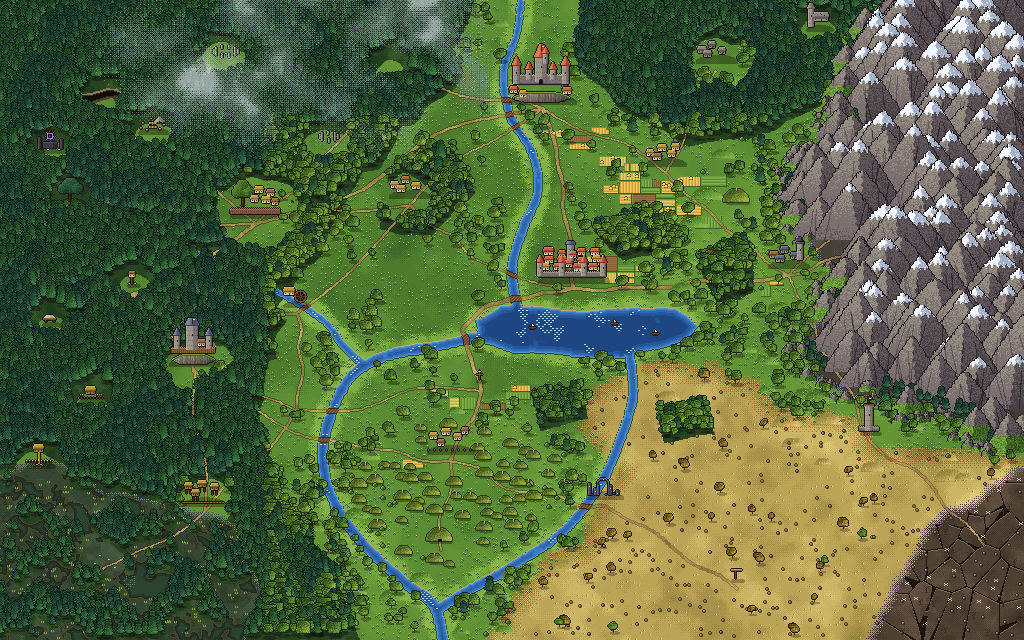
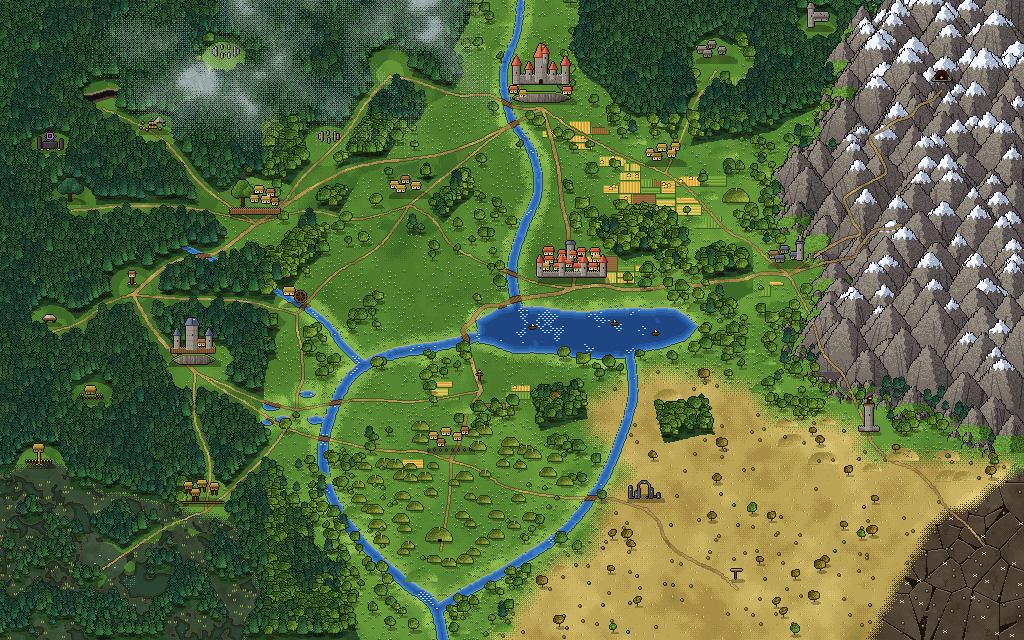
Walk along the roads; fix map drawing mistakes
- travelling: the company walks along the drawn road curves instead of
  jumping between places; the camera follows it, the figure turns to face
  the way it walks and bobs while walking
- tools/velesia_map.py writes js/data/velesia-roads.js (ROADS, the shape
  of every road); dashed lines to secret places follow the same curves
- map: roads through forests are no longer hidden under tree crowns (grass
  verges instead of bare forest floor); villages and places next to the
  mountains stand on grass, no more dark bare patches; mountain roads
  are drawn over the slopes, with switchbacks up to Smocza Jama; the
  cave is drawn above the peaks; Ruiny Asterionu moved off the river;
  Rozlewiska get ponds; fewer pebbles on the plains; generator is now
  deterministic (no Python hash())
- music: expeditions to Bagno, Pola, Chata and Wilcze Jary asked for a
  track that does not exist (error every beat); they now reuse a similar one

Claude-Session: https://claude.ai/code/session_01PqUadMpNc5W4942yjJ69E8

diff --git a/js/data/velesia-roads.js b/js/data/velesia-roads.js
@@ -1,0 +1,47 @@
+/* ===== DROGI VELESII: kształt dróg z mapy, punkty w procentach mapy (x, y) =====
+   Wygenerowane przez tools/velesia_map.py – nie edytuj ręcznie, tylko uruchom skrypt ponownie. */
+const ROADS={
+ "weleszow|dabrowa":[[53,17],[52.6,17.3],[52.1,17.7],[51.7,18.1],[51.3,18.4],[50.8,18.8],[50.4,19.1],[50,19.5],[49.5,19.8],[49.1,20.2],[48.6,20.5],[48.2,20.9],[47.8,21.2],[47.3,21.6],[46.9,21.9],[46.4,22.2],[46,22.5],[45.5,22.8],[45.1,23.1],[44.6,23.4],[44.2,23.6],[43.7,23.8],[43.2,24.1],[42.7,24.2],[42.3,24.4],[41.8,24.5],[41.3,24.6],[40.8,24.7],[40.3,24.8],[39.9,24.9],[39.4,25],[38.9,25],[38.4,25.1],[37.9,25.2],[37.4,25.3],[36.9,25.4],[36.5,25.5],[36,25.7],[35.5,25.8],[35,26],[34.6,26.2],[34.1,26.5],[33.6,26.7],[33.2,27],[32.7,27.4],[32.3,27.7],[31.9,28.1],[31.4,28.5],[31,28.8],[30.6,29.2],[30.2,29.6],[29.8,30],[29.3,30.4],[28.9,30.9],[28.5,31.3],[28.1,31.7],[27.7,32.1],[27.3,32.6],[26.9,33],[26.5,33.5],[26.1,33.9],[25.7,34.3],[25.3,34.7],[25,35]],
+ "weleszow|brzezina":[[53,17],[52.6,17.4],[52.1,17.8],[51.7,18.1],[51.3,18.5],[50.9,18.9],[50.4,19.3],[50,19.7],[49.6,20.1],[49.2,20.5],[48.8,20.9],[48.4,21.3],[48,21.8],[47.6,22.2],[47.2,22.7],[46.8,23.2],[46.4,23.7],[46,24.2],[45.7,24.7],[45.3,25.2],[44.9,25.7],[44.5,26.2],[44.2,26.7],[43.8,27.2],[43.4,27.7],[43,28.1],[42.6,28.6],[42.3,29.1],[41.9,29.6],[41.5,30.1],[41.1,30.6],[40.7,31.1],[40.3,31.6],[40,32]],
+ "weleszow|olszynow":[[53,17],[53.4,17.4],[53.8,17.9],[54.2,18.3],[54.6,18.7],[55,19.2],[55.4,19.6],[55.9,20],[56.3,20.4],[56.7,20.8],[57.1,21.2],[57.5,21.6],[58,22],[58.4,22.3],[58.8,22.7],[59.3,23.1],[59.7,23.4],[60.1,23.8],[60.6,24.1],[61,24.4],[61.5,24.7],[61.9,25],[62.4,25.3],[62.8,25.6],[63.3,25.9],[63.7,26.2],[64.2,26.5],[64.6,26.8],[65,27]],
+ "weleszow|doliny":[[53,17],[52.5,17],[52,17],[51.5,17.1],[51,17],[50.6,17],[50.1,16.8],[49.6,16.4],[49.2,16.1],[48.8,15.7],[48.4,15.3],[47.9,15],[47.4,14.9],[47,14.9],[46.5,14.9],[46,15],[45.5,15],[45,15],[44.5,14.9],[44,14.7],[43.6,14.4],[43.1,14.2],[42.7,13.9],[42.2,13.7],[41.7,13.4],[41.3,13.1],[40.8,12.9],[40.4,12.6],[39.9,12.5],[39.4,12.3],[38.9,12.2],[38.4,12.1],[38,12]],
+ "weleszow|sanow":[[53,17],[53.1,17.7],[53.3,18.5],[53.4,19.2],[53.6,20],[53.7,20.7],[53.8,21.5],[53.9,22.3],[54.1,23],[54.2,23.8],[54.3,24.5],[54.4,25.3],[54.5,26.1],[54.6,26.8],[54.6,27.6],[54.7,28.4],[54.7,29.2],[54.8,29.9],[54.8,30.7],[54.9,31.5],[54.9,32.3],[55,33],[55.2,33.8],[55.3,34.5],[55.4,35.3],[55.5,36.1],[55.5,36.8],[55.4,37.6],[55.4,38.4],[55.4,39.2],[55.6,39.9],[55.8,40.6],[56,41.3],[56.1,42.1],[56.1,42.9],[56.1,43.7],[56,44.4],[56,45]],
+ "dabrowa|brzezina":[[25,35],[25.5,34.8],[25.9,34.5],[26.4,34.3],[26.9,34],[27.3,33.8],[27.8,33.5],[28.3,33.3],[28.7,33.2],[29.2,33],[29.7,32.9],[30.2,32.9],[30.7,32.9],[31.2,33.1],[31.6,33.2],[32.1,33.4],[32.6,33.6],[33.1,33.8],[33.5,33.9],[34,34],[34.5,34.1],[35,34.1],[35.5,34],[36,33.9],[36.4,33.8],[36.9,33.6],[37.4,33.4],[37.8,33.1],[38.3,32.9],[38.8,32.6],[39.2,32.4],[39.7,32.1],[40,32]],
+ "dabrowa|puszcza":[[25,35],[24.5,34.8],[24.1,34.6],[23.6,34.4],[23.1,34.2],[22.6,34],[22.2,33.8],[21.7,33.6],[21.2,33.4],[20.7,33.2],[20.3,33],[19.8,32.9],[19.3,32.8],[18.8,32.7],[18.3,32.6],[17.9,32.5],[17.4,32.4],[16.9,32.4],[16.4,32.3],[15.9,32.3],[15.4,32.3],[14.9,32.3],[14.4,32.3],[14,32.3],[13.5,32.3],[13,32.3],[12.5,32.3],[12,32.4],[11.5,32.4],[11,32.5],[10.5,32.5],[10.1,32.6],[9.6,32.6],[9.1,32.7],[8.6,32.8],[8.1,32.8],[7.6,32.9],[7,33]],
+ "dabrowa|jary":[[25,35],[24.6,34.6],[24.2,34.1],[23.8,33.7],[23.4,33.3],[23,32.8],[22.6,32.4],[22.2,32],[21.8,31.5],[21.4,31.1],[21,30.6],[20.6,30.1],[20.2,29.6],[19.8,29.1],[19.5,28.6],[19.2,28],[18.9,27.4],[18.5,26.8],[18.2,26.1],[18,25.5],[17.7,24.9],[17.4,24.3],[17,23.7],[16.7,23.1],[16.4,22.5],[16,22],[15.6,21.5],[15.2,21.1],[14.8,20.7],[14.4,20.3],[14,19.9],[13.5,19.6],[13.1,19.2],[12.6,18.9],[12.2,18.6],[11.8,18.3],[11.3,17.9],[10.9,17.6],[10.4,17.3],[10,17]],
+ "dabrowa|krag":[[25,35],[25.4,34.6],[25.8,34.1],[26.2,33.7],[26.6,33.2],[27,32.7],[27.4,32.2],[27.7,31.7],[28,31.1],[28.3,30.5],[28.6,29.8],[28.9,29.2],[29.2,28.5],[29.5,27.9],[29.8,27.3],[30.1,26.8],[30.5,26.2],[30.8,25.7],[31.2,25.2],[31.6,24.7],[32,24]],
+ "dabrowa|kapliczka":[[25,35],[24.6,35.5],[24.2,36],[23.9,36.5],[23.5,37],[23.1,37.5],[22.7,37.9],[22.3,38.4],[21.9,38.8],[21.5,39.2],[21,39.5],[20.6,39.7],[20.1,39.9],[19.6,40.1],[19.1,40.2],[18.6,40.3],[18.2,40.4],[17.7,40.6],[17.2,40.8],[16.8,41.1],[16.3,41.5],[15.9,41.9],[15.5,42.4],[15.2,42.9],[14.8,43.4],[14.4,43.9],[14.1,44.4],[13.7,45],[13.4,45.5],[13,46]],
+ "dabrowa|polana":[[25,35],[25,34.2],[24.9,33.4],[24.9,32.7],[24.9,31.9],[24.8,31.1],[24.8,30.3],[24.7,29.5],[24.7,28.8],[24.6,28],[24.5,27.2],[24.4,26.5],[24.3,25.7],[24.1,25],[23.9,24.3],[23.7,23.5],[23.5,22.8],[23.3,22.1],[23.1,21.4],[23,20.7],[22.8,19.9],[22.7,19.2],[22.6,18.4],[22.5,17.6],[22.4,16.9],[22.4,16.1],[22.3,15.3],[22.2,14.5],[22.2,13.8],[22.1,13],[22.1,12.2],[22,11.4],[22,11]],
+ "dabrowa|wyrab":[[25,35],[24.6,34.6],[24.1,34.3],[23.7,33.9],[23.3,33.6],[22.8,33.2],[22.4,32.8],[22,32.5],[21.6,32],[21.2,31.6],[20.8,31.1],[20.4,30.6],[20.1,30],[19.7,29.4],[19.4,28.9],[19.1,28.3],[18.8,27.7],[18.4,27.2],[18.1,26.6],[17.7,26.1],[17.4,25.5],[17,25],[16.6,24.5],[16.3,23.9],[15.9,23.4],[15.6,22.9],[15.2,22.3],[15,22]],
+ "wyrab|czarnybor":[[15,22],[14.5,22.2],[14.1,22.5],[13.6,22.7],[13.1,22.9],[12.7,23.1],[12.2,23.3],[11.7,23.5],[11.2,23.5],[10.7,23.5],[10.2,23.5],[9.8,23.5],[9.3,23.4],[8.8,23.5],[8.3,23.5],[7.8,23.7],[7.3,23.9],[6.9,24.1],[6.4,24.3],[5.9,24.5],[5.5,24.8],[5,25]],
+ "krag|polana":[[32,24],[31.6,23.5],[31.3,22.9],[30.9,22.4],[30.6,21.8],[30.2,21.3],[29.9,20.8],[29.5,20.2],[29.2,19.7],[28.8,19.2],[28.4,18.7],[28.1,18.2],[27.7,17.7],[27.3,17.2],[26.9,16.7],[26.5,16.2],[26.2,15.7],[25.8,15.2],[25.4,14.8],[25,14.3],[24.6,13.9],[24.2,13.4],[23.8,13],[23.4,12.5],[23,12.1],[22.6,11.6],[22.2,11.2],[22,11]],
+ "krag|doliny":[[32,24],[32.3,23.4],[32.7,22.9],[33,22.3],[33.3,21.7],[33.7,21.1],[34,20.6],[34.3,19.9],[34.5,19.3],[34.8,18.6],[35,17.9],[35.3,17.3],[35.6,16.6],[35.8,16],[36.1,15.3],[36.5,14.7],[36.8,14.2],[37.1,13.6],[37.4,13],[37.8,12.4],[38,12]],
+ "brzezina|mlyn":[[40,32],[39.7,32.6],[39.5,33.3],[39.2,34],[38.9,34.6],[38.6,35.3],[38.4,35.9],[38.1,36.5],[37.8,37.1],[37.5,37.7],[37.1,38.3],[36.8,38.8],[36.4,39.3],[36,39.8],[35.6,40.2],[35.1,40.5],[34.7,40.9],[34.3,41.3],[33.9,41.7],[33.4,42.1],[33,42.5],[32.6,43],[32.3,43.5],[31.9,44],[31.6,44.5],[31.2,45.1],[30.9,45.7],[30.5,46.2],[30.2,46.8],[29.9,47.4],[29.6,48],[29.2,48.6],[29,49]],
+ "brzezina|sanow":[[40,32],[40.4,32.4],[40.9,32.7],[41.3,33.1],[41.7,33.5],[42.1,34],[42.4,34.6],[42.7,35.2],[43,35.9],[43.2,36.6],[43.5,37.2],[43.8,37.8],[44.2,38.3],[44.6,38.7],[45,39.1],[45.4,39.5],[45.8,39.9],[46.3,40.2],[46.7,40.6],[47.2,40.9],[47.6,41.2],[48.1,41.5],[48.5,41.8],[49,42],[49.4,42.3],[49.9,42.6],[50.3,42.9],[50.8,43.2],[51.2,43.5],[51.7,43.8],[52.2,44],[52.6,44.2],[53.1,44.4],[53.6,44.5],[54.1,44.6],[54.6,44.7],[55,44.8],[55.5,44.9],[56,45]],
+ "kapliczka|mlyn":[[13,46],[13.5,46.1],[14,46.1],[14.5,46.2],[14.9,46.3],[15.4,46.3],[15.9,46.4],[16.4,46.4],[16.9,46.5],[17.4,46.6],[17.9,46.6],[18.4,46.7],[18.8,46.7],[19.3,46.7],[19.8,46.7],[20.3,46.7],[20.8,46.7],[21.3,46.7],[21.8,46.7],[22.3,46.8],[22.7,46.8],[23.2,46.9],[23.7,47],[24.2,47.1],[24.7,47.3],[25.2,47.4],[25.6,47.6],[26.1,47.8],[26.6,48],[27.1,48.2],[27.5,48.4],[28,48.6],[28.5,48.8],[29,49]],
+ "kapliczka|trakt":[[13,46],[12.5,46.2],[12.1,46.5],[11.6,46.7],[11.2,47],[10.7,47.3],[10.3,47.6],[9.8,48.1],[9.5,48.5],[9.1,49],[8.7,49.5],[8.3,50],[7.9,50.4],[7.4,50.7],[7,51],[6.5,51.3],[6.1,51.5],[5.6,51.7],[5,52]],
+ "kapliczka|kregoszew":[[13,46],[13.2,46.7],[13.5,47.4],[13.7,48.1],[13.9,48.8],[14.1,49.4],[14.4,50.1],[14.7,50.8],[14.9,51.4],[15.2,52.1],[15.5,52.7],[15.8,53.3],[16.1,53.9],[16.5,54.4],[16.8,55],[17.2,55.5],[17.5,56],[17.9,56.6],[18.3,57.1],[18.7,57.6],[19,58]],
+ "trakt|chata":[[5,52],[5.1,52.8],[5.1,53.6],[5.2,54.3],[5.2,55.1],[5.3,55.9],[5.3,56.7],[5.4,57.4],[5.4,58.2],[5.3,59],[5.3,59.8],[5.2,60.5],[5.1,61.3],[4.9,62],[4.8,62.8],[4.6,63.5],[4.5,64.3],[4.3,65],[4.2,65.8],[4.1,66.5],[4.1,67.3],[4,68.1],[4,68.9],[4,69.7],[4,70.4],[4,71.2],[4,72],[4,72.8],[4,73.6],[4,74]],
+ "kregoszew|jagna":[[19,58],[18.5,58.2],[18.1,58.5],[17.6,58.7],[17.1,59],[16.7,59.2],[16.2,59.4],[15.7,59.7],[15.3,59.9],[14.8,60.1],[14.3,60.3],[13.9,60.4],[13.4,60.6],[12.9,60.8],[12.4,61.1],[12,61.4],[11.6,61.7],[11.1,62.1],[10.7,62.4],[10.3,62.8],[9.8,63.2],[9.4,63.6],[9,64]],
+ "kregoszew|mokradla":[[19,58],[19,58.8],[19,59.6],[18.9,60.3],[18.9,61.1],[18.9,61.9],[18.9,62.7],[18.9,63.5],[18.9,64.2],[19,65],[19,65.8],[19.2,66.5],[19.3,67.3],[19.5,68],[19.7,68.7],[19.9,69.4],[20.1,70.2],[20.2,70.9],[20.4,71.7],[20.4,72.4],[20.5,73.2],[20.5,74],[20.4,74.8],[20.4,75.5],[20.3,76.3],[20.3,77.1],[20.2,77.9],[20.1,78.6],[20,79.4],[20,80]],
+ "kregoszew|rozlewiska":[[19,58],[19.4,58.3],[19.9,58.6],[20.3,59],[20.8,59.3],[21.2,59.6],[21.7,59.9],[22.1,60.2],[22.6,60.5],[23,60.9],[23.5,61.2],[23.9,61.5],[24.4,61.8],[24.8,62.1],[25.3,62.4],[25.7,62.6],[26.2,62.9],[26.7,63.1],[27.1,63.3],[27.6,63.5],[28.1,63.6],[28.6,63.8],[29,64]],
+ "kregoszew|kurhanow":[[19,58],[19.4,58.4],[19.8,58.9],[20.2,59.3],[20.6,59.7],[21,60.2],[21.4,60.6],[21.9,61],[22.3,61.4],[22.7,61.7],[23.1,62.1],[23.6,62.5],[24,62.9],[24.4,63.3],[24.8,63.7],[25.2,64.2],[25.6,64.6],[26,65],[26.4,65.5],[26.9,65.9],[27.3,66.2],[27.7,66.6],[28.2,66.9],[28.6,67.2],[29.1,67.5],[29.5,67.7],[30,68],[30.5,68.1],[31,68.3],[31.4,68.4],[31.9,68.6],[32.4,68.7],[32.9,68.8],[33.4,69],[33.8,69.2],[34.3,69.4],[34.8,69.6],[35.3,69.8],[35.7,69.9],[36.2,70.1],[36.7,70.2],[37.2,70.3],[37.7,70.3],[38.2,70.4],[38.6,70.5],[39.1,70.5],[39.6,70.5],[40.1,70.5],[40.6,70.5],[41.1,70.5],[41.6,70.6],[42,70.8],[42.5,71.1],[43,71.4],[43.4,71.6],[44,72]],
+ "mlyn|rozlewiska":[[29,49],[29,49.8],[29,50.6],[29,51.3],[29,52.1],[29.2,52.9],[29.3,53.6],[29.4,54.4],[29.5,55.2],[29.5,55.9],[29.5,56.7],[29.5,57.5],[29.6,58.3],[29.6,59.1],[29.4,59.8],[29.2,60.5],[29.1,61.3],[29,62],[29,62.8],[29,63.6],[29,64]],
+ "rozlewiska|pola":[[29,64],[29.5,63.9],[30,63.7],[30.4,63.6],[30.9,63.4],[31.4,63.3],[31.9,63.1],[32.4,63],[32.8,62.8],[33.3,62.7],[33.8,62.6],[34.3,62.5],[34.8,62.4],[35.3,62.4],[35.8,62.4],[36.2,62.4],[36.7,62.4],[37.2,62.5],[37.7,62.5],[38.2,62.6],[38.7,62.6],[39.2,62.7],[39.7,62.7],[40.1,62.7],[40.6,62.7],[41.1,62.6],[41.6,62.5],[42.1,62.4],[42.6,62.3],[43.1,62.2],[43.5,62.1],[44,61.9],[44.5,61.8],[45,61.6],[45.5,61.5],[45.9,61.3],[46.4,61.2],[47,61]],
+ "rozlewiska|mokradla":[[29,64],[28.7,64.7],[28.5,65.3],[28.2,66],[28,66.7],[27.7,67.3],[27.5,68],[27.2,68.6],[26.9,69.3],[26.6,69.9],[26.3,70.5],[26,71.1],[25.7,71.7],[25.3,72.3],[25,72.8],[24.6,73.4],[24.3,73.9],[23.9,74.4],[23.6,75],[23.2,75.5],[22.9,76],[22.5,76.6],[22.1,77.1],[21.8,77.6],[21.4,78.1],[21,78.6],[20.7,79.1],[20.3,79.6],[20,80]],
+ "mokradla|bagno":[[20,80],[19.5,80.3],[19.1,80.5],[18.6,80.8],[18.2,81.1],[17.7,81.4],[17.3,81.7],[16.8,82],[16.4,82.3],[15.9,82.7],[15.5,83.1],[15.1,83.5],[14.7,83.9],[14.3,84.4],[13.9,84.8],[13.5,85.2],[13.1,85.6],[12.7,86.1],[12.3,86.5],[11.9,87],[11.5,87.4],[11.1,87.8],[10.6,88.3],[10.2,88.7],[10,89]],
+ "mokradla|chata":[[20,80],[19.5,79.7],[19.1,79.5],[18.6,79.2],[18.2,78.9],[17.7,78.7],[17.2,78.4],[16.8,78.2],[16.3,77.9],[15.8,77.7],[15.4,77.5],[14.9,77.4],[14.4,77.3],[13.9,77.2],[13.4,77.2],[12.9,77.2],[12.5,77.2],[12,77.3],[11.5,77.3],[11,77.3],[10.5,77.3],[10,77.3],[9.5,77.2],[9.1,77],[8.6,76.8],[8.1,76.6],[7.7,76.4],[7.2,76.1],[6.7,75.8],[6.3,75.5],[5.8,75.2],[5.4,74.9],[4.9,74.6],[4.5,74.3],[4,74]],
+ "sanow|pola":[[56,45],[55.5,45.3],[55.1,45.6],[54.6,45.8],[54.1,46],[53.7,46.1],[53.2,46.1],[52.7,46.2],[52.2,46.3],[51.7,46.4],[51.2,46.6],[50.8,46.7],[50.3,46.8],[49.8,47.1],[49.4,47.4],[48.9,47.7],[48.4,47.7],[47.9,47.7],[47.5,47.8],[47,48.2],[46.7,48.8],[46.4,49.4],[46.1,50],[45.8,50.6],[45.4,51.1],[45.2,51.7],[45.4,52.4],[45.6,53.2],[45.6,53.9],[45.6,54.7],[45.8,55.4],[46,56.1],[46.2,56.9],[46.3,57.6],[46.4,58.4],[46.6,59.1],[46.8,59.8],[46.9,60.6],[47,61]],
+ "pola|kurhanow":[[47,61],[46.7,61.6],[46.4,62.3],[46.2,62.9],[45.9,63.6],[45.7,64.3],[45.5,65],[45.4,65.8],[45.3,66.6],[45.2,67.3],[45.1,68.1],[44.9,68.8],[44.7,69.5],[44.5,70.2],[44.3,70.9],[44.1,71.6],[44,72]],
+ "kurhanow|kurhany":[[44,72],[44,72.8],[44,73.6],[44,74.3],[44,75.1],[43.9,75.9],[43.9,76.7],[43.8,77.5],[43.8,78.2],[43.7,79],[43.7,79.8],[43.6,80.6],[43.5,81.3],[43.4,82.1],[43.3,82.9],[43.3,83.6],[43.2,84.4],[43.1,85.2],[43,86]],
+ "kurhanow|ruiny":[[44,72],[44.5,72.2],[44.9,72.4],[45.4,72.6],[45.9,72.8],[46.4,73.1],[46.8,73.4],[47.2,73.7],[47.6,74.2],[48,74.7],[48.4,75.1],[48.8,75.6],[49.3,75.9],[49.7,76.2],[50.2,76.4],[50.7,76.6],[51.1,76.7],[51.6,76.9],[52.1,77],[52.6,77.2],[53.1,77.3],[53.5,77.4],[54,77.5],[54.5,77.6],[55,77.7],[55.5,77.7],[56,77.8],[56.5,77.8],[56.9,77.7],[57.4,77.7],[57.9,77.7],[58.4,77.7],[58.9,77.7],[59.4,77.8],[59.9,77.9],[60.3,78.1],[60.8,78.3],[61.3,78.6],[61.7,78.8],[62.2,79.1],[62.7,79.3],[63,79.5]],
+ "ruiny|poludnie":[[63,79.5],[63.4,80],[63.7,80.5],[64.1,81.1],[64.3,81.8],[64.5,82.5],[64.6,83.2],[64.9,83.9],[65.1,84.6],[65.4,85.2],[65.8,85.7],[66.2,86.2],[66.6,86.6],[67,87],[67.4,87.4],[67.9,87.7],[68.3,88.1],[68.8,88.4],[69.2,88.7],[69.7,89],[70.1,89.4],[70.5,89.9],[70.9,90.4],[71.2,90.9],[71.6,91.4],[72,92]],
+ "sanow|wschodnia":[[56,45],[56.5,44.9],[57,44.8],[57.5,44.7],[57.9,44.7],[58.4,44.6],[58.9,44.7],[59.4,44.8],[59.9,44.9],[60.4,45.1],[60.8,45.2],[61.3,45.3],[61.8,45.3],[62.3,45.3],[62.8,45.2],[63.3,45.1],[63.8,45.1],[64.2,44.9],[64.7,44.7],[65.2,44.5],[65.6,44.3],[66.1,44.2],[66.6,44.3],[67.1,44.4],[67.6,44.6],[68.1,44.6],[68.5,44.5],[69,44.3],[69.5,44.1],[70,44],[70.5,43.9],[71,43.9],[71.4,43.9],[71.9,43.8],[72.4,43.7],[72.9,43.5],[73.3,43.2],[73.8,43],[74.3,42.8],[74.8,42.7],[75.3,42.7],[75.7,42.8],[76.2,42.8],[76.7,42.9],[77,43]],
+ "olszynow|kurhan":[[65,27],[65.5,27.2],[65.9,27.4],[66.4,27.7],[66.9,27.9],[67.3,28.2],[67.7,28.6],[68.1,29.1],[68.5,29.6],[68.9,30.1],[69.2,30.6],[69.6,31.1],[70.1,31.5],[70.5,31.8],[70.9,32.2],[71.4,32.5],[71.8,32.9],[72,33]],
+ "olszynow|ustronie":[[65,27],[65.2,26.3],[65.4,25.6],[65.6,24.9],[65.8,24.2],[66.1,23.5],[66.3,22.8],[66.5,22.1],[66.7,21.3],[66.8,20.6],[67,19.9],[67.1,19.1],[67.3,18.4],[67.5,17.7],[67.7,16.9],[67.9,16.2],[68.1,15.5],[68.3,14.9],[68.6,14.2],[68.9,13.6],[69.2,12.9],[69.4,12.3],[69.7,11.6],[70,11]],
+ "olszynow|wschodnia":[[65,27],[65.4,27.4],[65.8,27.9],[66.2,28.3],[66.6,28.7],[67,29.2],[67.4,29.7],[67.7,30.3],[68.1,30.9],[68.4,31.5],[68.7,32],[69,32.6],[69.3,33.2],[69.7,33.8],[70,34.4],[70.3,35],[70.7,35.5],[71,36],[71.4,36.4],[71.9,36.8],[72.3,37.1],[72.8,37.4],[73.2,37.8],[73.6,38.3],[73.9,38.8],[74.3,39.4],[74.6,40],[75,40.5],[75.3,41],[75.7,41.5],[76.1,41.9],[76.5,42.4],[77,43]],
+ "ustronie|kaplica":[[70,11],[70.5,10.8],[70.9,10.6],[71.4,10.4],[71.9,10.1],[72.3,9.9],[72.8,9.7],[73.3,9.5],[73.7,9.2],[74.2,9],[74.7,8.7],[75.1,8.5],[75.6,8.2],[76.1,8],[76.5,7.7],[77,7.5],[77.4,7.2],[77.9,7],[78.4,6.8],[78.8,6.6],[79.3,6.3],[79.8,6.1],[80,6]],
+ "wschodnia|grzbiet":[[77,43],[77.4,42.7],[77.9,42.3],[78.3,42.1],[78.8,41.9],[79.3,41.7],[79.7,41.4],[80.2,41.1],[80.7,40.9],[81.2,40.8],[81.6,40.7],[82.1,40.5],[82.6,40.3],[83.1,40.2],[83.5,40],[83.8,39.3],[84,38.6],[84.3,38],[84.6,37.4],[84.9,36.7],[85.2,36.2],[85.7,35.9],[86.1,35.7],[86.6,35.7],[87.1,35.6],[87.6,35.3],[88,35]],
+ "wschodnia|jama":[[77,43],[77.4,42.5],[77.8,42],[78.2,41.6],[78.6,41.1],[79,40.7],[79.4,40.2],[79.8,39.8],[80.2,39.3],[80.6,38.9],[81,38.5],[81.4,38.2],[81.9,37.8],[82.3,37.4],[82.7,37.1],[83.2,36.9],[83.7,36.8],[84,36.3],[83.8,35.6],[83.5,35],[83.2,34.3],[83.1,33.6],[82.9,32.9],[82.7,32.2],[82.5,31.5],[82.6,30.7],[83,30.2],[83.4,29.8],[83.8,29.4],[84.2,29],[84.7,28.7],[85.1,28.3],[85.5,28],[86,27.6],[86.4,27.2],[86.5,26.5],[86.4,25.8],[86.2,25.1],[85.9,24.4],[85.6,23.7],[85.4,23.1],[85.1,22.4],[85,21.7],[85.2,21.1],[85.7,20.7],[86.1,20.3],[86.5,19.9],[86.9,19.5],[87.3,19],[87.8,18.7],[88.2,18.5],[88.7,18.2],[89.1,17.8],[89.4,17.2],[89.7,16.6],[90.1,16.2],[90.6,15.9],[91,15.6],[91.4,15.1],[91.7,14.5],[92,14]],
+ "wschodnia|straznica":[[77,43],[77.2,43.7],[77.5,44.4],[77.7,45],[78,45.7],[78.2,46.4],[78.4,47.1],[78.6,47.8],[78.8,48.5],[79,49.2],[79.2,49.9],[79.4,50.7],[79.5,51.4],[79.7,52.2],[79.8,52.9],[79.9,53.7],[80.1,54.4],[80.3,55.1],[80.6,55.7],[80.9,56.4],[81.2,56.9],[81.6,57.4],[82,57.9],[82.3,58.6],[82.5,59.2],[82.7,60],[82.9,60.7],[83.1,61.4],[83.3,62.1],[83.5,62.8],[83.7,63.5],[83.9,64.2],[84.1,65],[84.3,65.7],[84.5,66.4],[84.6,67.1],[84.8,67.9],[84.9,68.6],[85,69]],
+ "straznica|martwe":[[85,69],[85.3,69.6],[85.7,70.1],[86,70.7],[86.4,71.2],[86.8,71.7],[87.2,72],[87.7,72.3],[88.1,72.5],[88.6,72.8],[89,73.1],[89.4,73.5],[89.8,74],[90.2,74.5],[90.5,75.1],[90.8,75.7],[91.1,76.3],[91.4,76.9],[91.7,77.6],[91.9,78.3],[92.2,78.9],[92.5,79.5],[92.9,80],[93.3,80.5],[93.7,81],[94,81.5],[94.4,82],[94.7,82.6],[95.1,83.2],[95.4,83.8],[95.7,84.4],[96,85]]};

diff --git a/js/world/world-map.js b/js/world/world-map.js
@@ -30,7 +30,7 @@ const NODES={
  kapliczka:{n:'Leśna kapliczka',t:'Ciekawe miejsce',ty:'poi',x:13,y:46,ic:'temple',hidden:1,d:'Drewniana kapliczka na rozstaju leśnych dróg. Wędrowcy zostawiają tu dary.'},
  krag:{n:'Krąg Kamienny',t:'Ciekawe miejsce',ty:'poi',x:32,y:24,ic:'event',hidden:1,d:'Omszałe głazy ustawione w krąg. Szeptunki przychodzą tu w noc Kupały.'},
  straznica:{n:'Strażnica',t:'Ciekawe miejsce',ty:'poi',x:85,y:69,ic:'flag',hidden:1,d:'Opuszczona wieża sygnałowa u południowych stóp Wielkiego Grzbietu. Z jej szczytu widać Martwe Ziemie.'},
- ruiny:{n:'Ruiny Asterionu',t:'Ciekawe miejsce',ty:'poi',x:59,y:79,ic:'event',hidden:1,d:'Kolumny i łuki z czasów dawnych magów. Na kamieniach wciąż widać runy.'},
+ ruiny:{n:'Ruiny Asterionu',t:'Ciekawe miejsce',ty:'poi',x:63,y:79.5,ic:'event',hidden:1,d:'Kolumny i łuki z czasów dawnych magów. Na kamieniach wciąż widać runy.'},
  doliny:{n:'Mgliste Doliny',t:'Ciekawe miejsce',ty:'poi',x:38,y:12,ic:'event',hidden:1,d:'Doliny wiecznie spowite mgłą. Ludzie słyszą tu głosy zmarłych.'},
  rozlewiska:{n:'Rozlewiska Utopców',t:'Ciekawe miejsce',ty:'poi',x:29,y:64,ic:'event',hidden:1,d:'Zalane łąki nad Veleską. Rusałki i utopce wciągają tu nieostrożnych.'},
  polana:{n:'Mglista Polana',t:'Sekretna lokacja',ty:'site',hidden:1,x:22,y:11,ic:'event',d:'Krąg runicznych kamieni w mgle – miejsce pieczęci Asterionu.'},
@@ -78,11 +78,25 @@ function renderWorld(){const K=KINGDOMS.find(k=>k.k===wSel)||KINGDOMS[0];
  fitBox('wfit',16/9)}
 /* --- mapa Velesii (widok: js/world/velesia-map.js) --- */
 function qMark(k){return Object.keys(S.q).some(id=>{const q=S.q[id];if(q.done)return false;const st=QD[id]&&QD[id].st[q.s];return st&&st.obj&&(st.obj.go===k||st.obj.site===k||(st.obj.exp&&SITE_OF_R[st.obj.exp.r]===k))})||(NODES[k].ty==='town'&&talkNew(k))}
-/* --- podróż: znacznik idzie po drogach, po drodze 30% szans na wydarzenie --- */
-function travel(to,then){if(_trav)return;const path=pathTo(hereNode(),to);if(!path||path.length<2){if(then)then();return}_trav=true;window._lp=path;const g=document.getElementById('ngo');if(g)g.remove();const mk=document.getElementById('pmark');let i=0;
- if(mk&&NODES[to]){mvCenterSoft(to)}
- const step=()=>{i++;if(i>=path.length||!mk){passDays(path.length-1);arrive(to,then,path.length-1);return}const N=NODES[path[i]];reveal(path[i],1);mk.style.left=N.x+'%';mk.style.top=N.y+'%';typeof SND!=='undefined'&&SND.play('tap');setTimeout(step,T(520))};
- if(mk)mk.classList.add('mv');setTimeout(step,T(60))}
+/* --- podróż: kompania idzie po narysowanych drogach, po drodze 30% szans na wydarzenie --- */
+/* kształt drogi a→b z mapy (ROADS w js/data/velesia-roads.js, punkty w % mapy); bez danych – prosto */
+function roadLine(a,b){const r=ROADS[a+'|'+b];if(r)return r;const q=ROADS[b+'|'+a];if(q)return q.slice().reverse();return [[NODES[a].x,NODES[a].y],[NODES[b].x,NODES[b].y]]}
+const WALK_PX=.11;/* piksele mapy na milisekundę (przy prędkości gry ×1) */
+function travel(to,then){if(_trav)return;const path=pathTo(hereNode(),to);if(!path||path.length<2){if(then)then();return}_trav=true;window._lp=path;const g=document.getElementById('ngo');if(g)g.remove();const mk=document.getElementById('pmark');
+ const done=()=>{if(mk){mk.classList.remove('walk','fl');mk.style.transition=''}passDays(path.length-1);arrive(to,then,path.length-1)};
+ if(!mk){done();return}
+ /* jedna linia przez wszystkie odcinki; at[n] = indeks punktu, w którym kompania mija n-te miejsce */
+ const pts=[],at=[0];path.slice(1).forEach((k,i)=>{roadLine(path[i],k).forEach((p,j)=>{if(i&&!j)return;pts.push(p)});at.push(pts.length-1)});
+ const d=[0];for(let i=1;i<pts.length;i++)d.push(d[i-1]+Math.hypot((pts[i][0]-pts[i-1][0])*MAPW/100,(pts[i][1]-pts[i-1][1])*MAPH/100));
+ const tot=d[d.length-1]||1,dur=RM?300:Math.max(400,Math.min(8000,T(tot/WALK_PX)));let seg=1,ni=1,t0=null;
+ mk.style.transition='none';mk.classList.add('walk');
+ const frame=now=>{if(!document.body.contains(mk)){done();return}if(t0==null)t0=now;const s=Math.min(tot,(now-t0)/dur*tot);
+  while(seg<pts.length-1&&d[seg]<s)seg++;const a=pts[seg-1],b=pts[seg],f=d[seg]>d[seg-1]?(s-d[seg-1])/(d[seg]-d[seg-1]):1,x=a[0]+(b[0]-a[0])*f,y=a[1]+(b[1]-a[1])*f;
+  mk.style.left=x+'%';mk.style.top=y+'%';if(Math.abs(b[0]-a[0])>.05)mk.classList.toggle('fl',b[0]<a[0]);mvFollow(x,y);
+  /* mijane miejsca: odkryj sąsiadów, stuknij krokiem */
+  while(ni<path.length&&d[at[ni]]<=s+.01){reveal(path[ni],1);if(ni<path.length-1)typeof SND!=='undefined'&&SND.play('tap');ni++}
+  if(s>=tot){done();return}requestAnimationFrame(frame)};
+ requestAnimationFrame(frame)}
 let _then=null;
 function arrive(to,then,days){_trav=false;if(days>0&&Math.random()<roadChance()){S.pend={to};_then=then||null;save();roadEvent();return}finishTravel(to,then)}
 const roadChance=()=>window.ROAD_P!=null?window.ROAD_P:.3;

diff --git a/js/world/velesia-map.js b/js/world/velesia-map.js
@@ -55,7 +55,8 @@ function selNode(k){if(!nodeVis(k)&&!fogN(k))return;rSel=k;document.querySelecto
 function nodeIc(k){const N=NODES[k];if(N.ty==='site'&&N.r!=null&&!S.reg.lv[N.r])return ic('lock',14);if(N.ty==='site'&&N.r!=null&&S.reg.done[N.r])return ic('flag',14);if(N.ty==='poi'&&S.poi&&S.poi[k])return ic('xp',14);return ic(N.ic||(N.ty==='site'?'fight':'nav_town'),14)}
 function renderRegion(){regOk();wOk();const here=hereNode();if(!rSel||!(nodeVis(rSel)||fogN(rSel)))rSel=here;const ks=Object.keys(NODES).filter(nodeOk),fg=Object.keys(NODES).filter(fogN);
  const P=k=>NODES[k],vis=k=>nodeOk(k),/* drogi są narysowane na mapie; linie tylko dla ścieżek do sekretnych miejsc i do mgły */
- roads=EDGES.filter(e=>vis(e[0])&&vis(e[1])&&(SECRET.includes(e[0])||SECRET.includes(e[1]))).map(([a,b])=>`<line x1="${P(a).x}" y1="${P(a).y}" x2="${P(b).x}" y2="${P(b).y}"/>`).join('')+EDGES.filter(e=>(vis(e[0])&&fogN(e[1]))||(vis(e[1])&&fogN(e[0]))).map(([a,b])=>`<line class="fg" x1="${P(a).x}" y1="${P(a).y}" x2="${P(b).x}" y2="${P(b).y}"/>`).join('');
+ pl=(a,b,cl)=>`<polyline ${cl?`class="${cl}" `:''}points="${roadLine(a,b).map(p=>p.join(',')).join(' ')}"/>`,
+ roads=EDGES.filter(e=>vis(e[0])&&vis(e[1])&&(SECRET.includes(e[0])||SECRET.includes(e[1]))).map(([a,b])=>pl(a,b)).join('')+EDGES.filter(e=>(vis(e[0])&&fogN(e[1]))||(vis(e[1])&&fogN(e[0]))).map(([a,b])=>pl(a,b,'fg')).join('');
  const m=mainOf()||S.roster[0];
  document.getElementById('app').innerHTML=`<div class="wv rv2"><div class="ttop"><button class="btn-small" data-act="back" data-esc="1">${ic('back',16)}<span class="lbl"> Obóz</span></button><button class="btn-small" data-act="world" title="Mapa świata">${ic('map',18)}<span class="lbl"> Świat</span></button><h2>${emb(18)} Velesia <small class="tsub">${dayTxt()}</small></h2><button class="btn-small" data-act="journal">${ic('contract',18)}<span class="lbl"> Dziennik</span>${qBadge()}</button><span class="pill gold">${ic('gold',18)} ${S.gold}</span></div>
  <div class="wbody"><div class="rview" id="rview"><div class="rmap" id="rmap"><img class="px" src="${VART18.map}" alt="Mapa Velesii" draggable="false"><svg class="roads" viewBox="0 0 100 100" preserveAspectRatio="none">${roads}</svg>
@@ -86,6 +87,8 @@ function nodePanel(k){const N=NODES[k];
  b+=`<div class="mparty" data-act="formq">${[4,3,2,1,0].map(i=>{const h=S.slots[i]!=null?getHero(S.slots[i]):null;return `<span class="mp ${i<2?'f':''}">${h?bust(heroSprite(h),h.cls,30,1,-4):''}</span>`}).join('')}<small>Formacja ▸</small></div>`;
  return b+`<div class="rgorow"><button class="mbag" data-act="tomarket" title="Zapasy">${ic('bag',18)}<span>${bagN()}/${bagCap()}</span></button><button class="btn-main" data-act="rgo" data-k="${k}" ${ph.length&&path?'':'disabled'}>${ic('walk',20)} ${k===here?'Wyrusz':'Podróżuj i wyrusz'}</button></div>`}
 /* podróż po mapie: travel() i finishTravel() w js/world/world-map.js */
+/* kamera za kompanią w podróży (bez wygładzania – wołane co klatkę) */
+function mvFollow(x,y){const R=mvRect();if(!R)return;const B0=mvBase(R.v);MZ.x=B0.W/2-x/100*B0.w*MZ.z;MZ.y=B0.H/2-y/100*B0.h*MZ.z;mvApply()}
 function mvCenterSoft(k){const m=document.getElementById('rmap');if(m){m.style.transition='transform .6s ease';setTimeout(()=>{if(m)m.style.transition=''},700)}mvCenter(k)}
 document.addEventListener('click',e=>{const el=e.target.closest('[data-act]');if(!el||!S)return;switch(el.dataset.act){
  case 'mz':mvZoom(+el.dataset.z);break;case 'mzc':mvCenterSoft(hereNode());break;

diff --git a/css/world.css.js b/css/world.css.js
@@ -28,10 +28,15 @@ css`
 .npin em{position:absolute;top:-6px;right:-2px;font-style:normal;font-weight:bold;color:#2a1408;background:#ffd23a;border:2px solid #140d12;width:16px;height:16px;line-height:12px;text-align:center;font-size:.7rem;animation:qpulse 1.2s ease-in-out infinite}
 @keyframes qpulse{50%{transform:scale(1.2)}}
 .roads{position:absolute;inset:0;width:100%;height:100%;pointer-events:none}
-.roads line{stroke:#f4e2b0;stroke-width:3;stroke-dasharray:6 5;vector-effect:non-scaling-stroke;opacity:.85;filter:drop-shadow(1px 1px 0 #3a2414)}
+.roads line,.roads polyline{stroke:#f4e2b0;stroke-width:3;stroke-dasharray:6 5;vector-effect:non-scaling-stroke;opacity:.85;fill:none;stroke-linejoin:round;filter:drop-shadow(1px 1px 0 #3a2414)}
 .party{position:absolute;transform:translate(-50%,-92%);z-index:3;pointer-events:none;transition:left calc(.55s * var(--sp)) linear,top calc(.55s * var(--sp)) linear;filter:drop-shadow(0 2px 0 #000)}
 .party .pfig{display:block;width:28px;height:58px}
 .party .pflag{position:absolute;right:-10px;top:-2px}
+.party.fl .pfig{transform:scaleX(-1)}
+.party.walk .pfig{animation:pwalk .36s steps(2) infinite}
+.party.fl.walk .pfig{animation-name:pwalkfl}
+@keyframes pwalk{50%{transform:translateY(-2px)}}
+@keyframes pwalkfl{0%,100%{transform:scaleX(-1)}50%{transform:scaleX(-1) translateY(-2px)}}
 @media (max-height:500px){.party .pfig{width:20px;height:42px}}
 .pano{height:96px;flex:0 0 auto;margin:0 -2px;background:#223 center/cover no-repeat;image-rendering:pixelated;box-shadow:0 0 0 2px #6a4a30;position:relative;overflow:hidden}
 .pano.scene .amb{display:none}

diff --git a/js/audio/sound.js b/js/audio/sound.js
@@ -68,7 +68,7 @@ const SND=(()=>{let ac=null,master,mus,sfx,nbuf,cur=null,curK='',tmr=null,last={
    if(T.pad&&i%16===0){const b=T.bass[Math.floor(i/4)%T.bass.length];[0,2,4].forEach(x=>tone(N(T.r,deg(sc,b+x)),sp*15,Object.assign({},o,{w:'sine',v:.035,a:sp*4})))}
    const dc=T.dr&&T.dr[i%T.dr.length];if(dc==='k')tone(110,.12,Object.assign({},o,{w:'sine',v:.3,to:40}));else if(dc==='s')noise(.1,Object.assign({},o,{f:1800,q:.8,v:.12}));else if(dc==='h')noise(.03,Object.assign({},o,{ft:'highpass',f:7000,v:.06}));
    cur.step++;cur.next+=sp}}
- function pickTrack(){if(!ac)return;let k='town';try{if(screen==='battle'&&B)k=B.units.some(u=>u.side==='e'&&u.boss)?'boss':'battle';else if(screen==='exp'&&S&&S.exp)k='amb'+(S.exp.r||0)}catch(e){}startTrack(k)}
+ function pickTrack(){if(!ac)return;let k='town';try{if(screen==='battle'&&B)k=B.units.some(u=>u.side==='e'&&u.boss)?'boss':'battle';else if(screen==='exp'&&S&&S.exp){const r=S.exp.r||0;/* nowe krainy (bagno, pola, chata, jary) grają muzykę podobnej krainy */k='amb'+(TR['amb'+r]?r:[2,1,2,0][r-5]||0)}}catch(e){}startTrack(k)}
  document.addEventListener('visibilitychange',()=>{if(!ac)return;document.hidden?ac.suspend():ac.resume()});
  ['pointerdown','keydown','touchend'].forEach(e=>document.addEventListener(e,init,{capture:true,passive:true}));
  return {play,vol,init,get ac(){return ac},get track(){return curK}}})();

diff --git a/css/velesia-map.css.js b/css/velesia-map.css.js
@@ -12,7 +12,7 @@ css`
 .npin.n-fog b{color:#b8a888;background:#140d1299}
 .npin.here b{color:#9ae070}
 .npin.on i{transform:scale(1.18);box-shadow:0 0 0 2px #140d12,0 0 0 4px #fff4d0,0 0 12px 4px #ffd870}
-.roads line.fg{stroke:#b8a888;opacity:.45;stroke-dasharray:2 6}
+.roads .fg{stroke:#b8a888;opacity:.45;stroke-dasharray:2 6}
 .ngo{position:absolute;left:8px;bottom:6px;z-index:8;max-width:calc(100% - 170px);overflow:hidden;text-overflow:ellipsis;min-height:32px;padding:0 8px;border-width:6px;border-image-width:6px;white-space:nowrap;font-size:.8rem;pointer-events:auto;color:#2a1408;border-image-source:var(--fr-btn-gold,var(--fr-btn));background:#e8a040;}
 .mzb{position:absolute;right:6px;bottom:6px;display:flex;gap:4px;align-items:center;z-index:7}
 .mzb .btn-small{min-height:34px;min-width:34px;padding:0 6px;border-width:6px;border-image-width:6px;font-size:1.1rem}

diff --git a/index.html b/index.html
@@ -49,6 +49,7 @@
 <script src="js/gfx/sprites.js"></script>
 <script src="js/data/sprites-v19.js"></script>
 <script src="js/data/art.js"></script>
+<script src="js/data/velesia-roads.js"></script>
 <script src="js/core/util.js"></script>
 <script src="js/data/classes.js"></script>
 <script src="js/data/enemies.js"></script>

diff --git a/tools/velesia_map.py b/tools/velesia_map.py
@@ -10,7 +10,7 @@ miejsca wystarczy dopisać mu rysunek (LANDMARK niżej) i uruchomić ponownie:
 
 Wymaga: Python 3, numpy, scipy, Pillow. Gra sama z tego narzędzia nie korzysta.
 """
-import math, os, random, re, sys
+import math, os, random, re, sys, zlib
 import numpy as np
 from PIL import Image, ImageDraw
 from scipy import ndimage
@@ -160,9 +160,11 @@ FARMS = [('olszynow', 0, 14, 62, 30), ('olszynow', -40, -6, 26, 18), ('pola', 0,
 MAIN_ROADS = {('weleszow', 'sanow'), ('weleszow', 'dabrowa'), ('sanow', 'wschodnia'), ('kregoszew', 'kapliczka'), ('dabrowa', 'kapliczka'), ('sanow', 'pola'), ('pola', 'kurhanow')}
 
 
-def node_area(scale=1.0):
+def node_area(scale=1.0, skip=()):
     m = np.zeros((H, W), bool)
     for k, nd in NODES.items():
+        if k in skip:
+            continue
         x, y = P(nd['x'], nd['y'])
         m |= ((XX - x) / (24 * scale)) ** 2 + ((YY - y + 9) / (19 * scale)) ** 2 < 1
     return m
@@ -172,10 +174,19 @@ def build_masks():
     m = {}
     water = stroke(RIVER_MAIN, (5, 8), 1, 1) | stroke(RIVER_WEST, (8, 9), 1, 2) | stroke(RIVER_EAST, (7, 8), 1, 3) | stroke(RIVER_TRIB, (3, 6), .8, 4)
     water |= blob(LAKE, 7, 5)
+    if 'rozlewiska' in NODES:  # zalane łąki: sadzawki wokół miejsca
+        x, y = NP('rozlewiska')
+        for i, (dx, dy, rx, ry) in enumerate([(-26, -4, 9, 4), (-14, 9, 7, 3), (18, 10, 8, 3.5), (-30, 12, 6, 3), (10, -16, 7, 3)]):
+            water |= (((XX - x - dx) / rx) ** 2 + ((YY - y - dy) / ry) ** 2) < 1 + (fbm(60 + i, (6, 3), (.6, .4)) - .5) * .8
     m['water'] = water
     m['plains'] = blob(PLAINS, 26, 11)
     m['dead'] = blob(DEAD, 16, 12)
-    m['mount'] = blob(MOUNTAINS, 14, 13)
+    mount = blob(MOUNTAINS, 14, 13)
+    for k, nd in NODES.items():
+        if nd['ty'] in ('town', 'poi'):
+            x, y = P(nd['x'], nd['y'])
+            mount &= ((XX - x) / 34) ** 2 + ((YY - y + 8) / 26) ** 2 > 1
+    m['mount'] = mount
     forest = blob(FOREST_W, 22, 14) | blob(FOREST_NE, 16, 15)
     for i, g in enumerate(GROVES):
         forest |= blob(g, 9, 40 + i)
@@ -204,7 +215,7 @@ FLOOR = pal('#1f3a1e', '#264524', '#2e5229')
 PLAIN = pal('#94803e', '#a8924a', '#bba456', '#cab464', '#d8c476', '#e4d288')
 DEADC = pal('#33271f', '#41332a', '#4f4034', '#5e4d3e', '#6c5a48')
 SWMP = pal('#253427', '#2d3f2e', '#364a34', '#41563c', '#4c6244')
-ROCKG = pal('#3b3833', '#47433c', '#545046', '#625d51')
+ROCKG = pal('#4a4146', '#564c50', '#62575a', '#706466')
 MISTC = np.array(hexc('#e2e9ee'), float)
 
 
@@ -353,16 +364,16 @@ def paint_details(M, busy):
             if y + 1 < H:
                 img[y + 1, x] = dk
     dry = free & M['plains'] & ~M['dead']
-    for (x, y) in scatter(dry, 8, .95, 71):
+    for (x, y) in scatter(dry, 9, .95, 71):
         x, y = int(x), int(y)
         r = R.random()
         if r < .35:
             img[y, x] = hexc('#8e7a3c')
             if x + 1 < W:
                 img[y, x + 1] = hexc('#e8d898')
-        elif r < .52:
+        elif r < .44:
             add(y, lambda x=x, y=y: blit(BUSH_DRY, x, y))
-        elif r < .545:
+        elif r < .45:
             add(y, lambda x=x, y=y: blit(STONE_S, x, y))
     for (x, y) in scatter(free & M['dead'] & (sdf(M['dead']) < -3), 14, .95, 72):
         r = R.random()
@@ -486,7 +497,7 @@ SPR_CACHE = {}
 def tree_sprite(kind, size, var):
     key = (kind, size, var, R.randint(0, 4))
     if key not in SPR_CACHE:
-        s = (hash(key) & 0xffff) + SEED
+        s = (zlib.crc32(repr(key).encode()) & 0xffff) + SEED
         SPR_CACHE[key] = conifer(size, var, s) if kind == 'c' else leafy(size, var, s, kind == 'b')
     return SPR_CACHE[key]
 
@@ -729,8 +740,8 @@ REED = ascii_spr(['l l', 'lgl', ' g '], {'l': '#8a9a46', 'g': '#4e6028'})
 
 # ================================================================ DROGI
 ROAD_VIA = {('weleszow', 'sanow'): [(54.5, 26), (55.5, 36)], ('sanow', 'wschodnia'): [(64, 45), (70, 44)], ('kregoszew', 'kurhanow'): [(27, 66), (36, 70)],
-            ('weleszow', 'doliny'): [(45, 15)], ('olszynow', 'wschodnia'): [(71, 36)], ('wschodnia', 'jama'): [(83, 34), (86, 24)],
-            ('wschodnia', 'grzbiet'): [(82, 40)], ('wschodnia', 'straznica'): [(80, 54), (83, 61)], ('ruiny', 'poludnie'): [(66, 86)],
+            ('weleszow', 'doliny'): [(45, 15)], ('olszynow', 'wschodnia'): [(71, 36)], ('wschodnia', 'jama'): [(80.5, 39), (84, 36.5), (82.5, 31), (86.5, 27), (85, 21.5), (89, 18)],
+            ('wschodnia', 'grzbiet'): [(80.5, 41), (83.5, 40), (85, 36.5)], ('wschodnia', 'straznica'): [(80, 54), (83, 61)], ('ruiny', 'poludnie'): [(66, 86)],
             ('straznica', 'martwe'): [(91, 76)], ('kurhanow', 'ruiny'): [(52, 77)], ('sanow', 'pola'): [(51.5, 46.5), (47.5, 47.8), (45.2, 51.5), (46, 56)],
             ('brzezina', 'sanow'): [(46, 40)], ('mlyn', 'rozlewiska'): [(29.5, 57)]}
 
@@ -741,7 +752,7 @@ def road_pts(a, b):
     if key and key != (a, b):
         via = via[::-1]
     pts = [NP(a)] + [P(*v) for v in via] + [NP(b)]
-    r2 = random.Random(hash((a, b)) & 0xffff)
+    r2 = random.Random(zlib.crc32((a + '|' + b).encode()))
     # lekkie wygięcia
     out = [pts[0]]
     for p0, p1 in zip(pts, pts[1:]):
@@ -755,13 +766,19 @@ def road_pts(a, b):
     return catmull(out, 14)
 
 
+ROAD_CURVES = {}
+
+
 def paint_roads(M):
     road = Image.new('L', (W, H), 0)
     d = ImageDraw.Draw(road)
     for a, b in EDGES:
-        if a in SECRET or b in SECRET or a not in NODES or b not in NODES:
+        if a not in NODES or b not in NODES:
             continue
         cs = road_pts(a, b)
+        ROAD_CURVES[(a, b)] = cs
+        if a in SECRET or b in SECRET:  # sekretnych ścieżek nie rysujemy – gra pokaże je po odkryciu
+            continue
         wd = 3 if (a, b) in MAIN_ROADS or (b, a) in MAIN_ROADS else 2
         d.line([tuple(p) for p in cs], fill=255, width=wd, joint='curve')
     rm = np.array(road) > 0
@@ -781,6 +798,39 @@ def paint_roads(M):
     rail = ndimage.binary_dilation(br) & ~br & M['water']
     img[rail] = hexc('#3a2614')
     return rm
+
+
+def resample(cs, step):
+    out = [cs[0]]
+    acc = 0.0
+    for p0, p1 in zip(cs, cs[1:]):
+        seg = math.hypot(p1[0] - p0[0], p1[1] - p0[1])
+        while acc + seg >= step and seg > 0:
+            t = (step - acc) / seg
+            p0 = (p0[0] + (p1[0] - p0[0]) * t, p0[1] + (p1[1] - p0[1]) * t)
+            out.append(p0)
+            seg = math.hypot(p1[0] - p0[0], p1[1] - p0[1])
+            acc = 0.0
+        acc += seg
+    if math.hypot(out[-1][0] - cs[-1][0], out[-1][1] - cs[-1][1]) > step * .4:
+        out.append(cs[-1])
+    else:
+        out[-1] = cs[-1]
+    return out
+
+
+def write_roads():
+    """js/data/velesia-roads.js: kształt każdej drogi w procentach mapy – po nim idzie kompania"""
+    rows = []
+    for (a, b), cs in ROAD_CURVES.items():
+        pts = resample([tuple(p) for p in cs], 5)
+        rows.append(' "%s|%s":[%s]' % (a, b, ','.join('[%s,%s]' % (('%.1f' % (x * 100 / W)).rstrip('0').rstrip('.'), ('%.1f' % (y * 100 / H)).rstrip('0').rstrip('.')) for x, y in pts)))
+    src = ('/* ===== DROGI VELESII: kształt dróg z mapy, punkty w procentach mapy (x, y) =====\n'
+           '   Wygenerowane przez tools/velesia_map.py – nie edytuj ręcznie, tylko uruchom skrypt ponownie. */\n'
+           'const ROADS={\n' + ',\n'.join(rows) + '};\n')
+    out = os.path.join(ROOT, 'js/data/velesia-roads.js')
+    open(out, 'w', encoding='utf-8').write(src)
+    print('zapisano', out, len(src) // 1024, 'KB')
 
 
 # ================================================================ BUDYNKI
@@ -1392,15 +1442,25 @@ def main():
     paint_swamp(M, busy | keep)
     place_hills(M, keep | busy)
     paint_details(M, busy | keep)
-    nofor = keep | M['water'] | busy
+    rw = ndimage.binary_dilation(rm, structure=np.ones((1, 9), bool))
+    band = rw.copy()
+    for dy in range(-2, 19):
+        band |= np.roll(rw, dy, axis=0)
+    nofor = keep | M['water'] | busy | band
+    # tam, gdzie w lesie nie wyrosną drzewa (przy drogach i miejscach), zamiast gołej ściółki – trawiasta przesieka
+    fr = M['forest'] & (band | keep) & ~rm & ~M['water']
+    gr = GRASS[np.clip(tone(N2 * .6 + N3 * .4, 6, .7) - 2, 0, 3)]
+    img[fr] = gr[fr]
     plant_trees(M, nofor)
-    raise_mountains(M, keep | ndimage.binary_dilation(rm, iterations=8))
+    in_mnt = [k for k, nd in NODES.items() if nd['ty'] == 'site' and M['mount'][int(NP(k)[1]), int(NP(k)[0])]]
+    raise_mountains(M, node_area(skip=in_mnt) | ndimage.binary_dilation(rm, iterations=2))  # drogi górskie i tak rysujemy na wierzchu
     place_barrows(M, keep | busy)
     L = landmarks()
     for k, (spr, dy) in L.items():
         if k in NODES:
             x, y = NP(k)
-            add(y + dy + 1, lambda s=spr, x=x, y=y + dy: blit(s, x, y))
+            top = 1000 if M['mount'][int(y), int(x)] else 0  # w górach: nad szczytami
+            add(y + dy + 1 + top, lambda s=spr, x=x, y=y + dy: blit(s, x, y))
     if 'jary' in NODES:
         x, y = NP('jary')
         lm_gorge()(x, y - 4)
@@ -1410,12 +1470,19 @@ def main():
     print('obiekty', len(OBJS), round(time.time() - t0, 1), 's')
     for _, _, fn in sorted(OBJS, key=lambda o: (o[0], o[1])):
         fn()
+    # drogi przez góry: na wierzchu skał (ścieżka wije się po zboczach)
+    mz = rm & ndimage.binary_dilation(M['mount'], iterations=6) & ~M['water']
+    rc = pal('#7e6238', '#9c7c48', '#b49456', '#c8aa6a')[tone(N3, 4, .9)]
+    me = ndimage.binary_dilation(mz) & ~mz & ndimage.binary_dilation(M['mount'], iterations=6)
+    img[me] = (img[me] * .6).astype(np.uint8)
+    img[mz] = rc[mz]
     if 'bagno' in NODES:
         wisps(*NP('bagno'))
     paint_mist(M)
     out = os.path.join(ROOT, 'assets/maps/velesia-big.png')
     Image.fromarray(img).quantize(256, method=Image.Quantize.MAXCOVERAGE, dither=Image.Dither.NONE).save(out, optimize=True)
     print('zapisano', out, os.path.getsize(out) // 1024, 'KB', round(time.time() - t0, 1), 's')
+    write_roads()
     if debug:
         os.makedirs(os.path.join(ROOT, 'tools/out'), exist_ok=True)
         big = Image.fromarray(img).resize((W * 2, H * 2), Image.NEAREST)

diff --git a/README.md b/README.md
@@ -76,6 +76,9 @@ scipy and Pillow – only needed to redraw the map, not to play). It reads place
 so towns, roads and pins always line up. The landscape (rivers, forests, mountains, fields) and the
 drawing of each place (`landmarks()`) are in the script.
 
+It also writes `js/data/velesia-roads.js` (`ROADS`): the shape of every road, which the company walks
+along when travelling and which the dashed lines to secret places follow.
+
 To add a place: add it to `NODES` (and roads to `EDGES`), give it a drawing in `landmarks()` if it needs
 one, then run `python3 tools/velesia_map.py` (add `--debug` for a labelled preview in `tools/out/`).
 The map is 1024×640; the game shows it scaled without smoothing, 2 screen pixels per map pixel by default.
